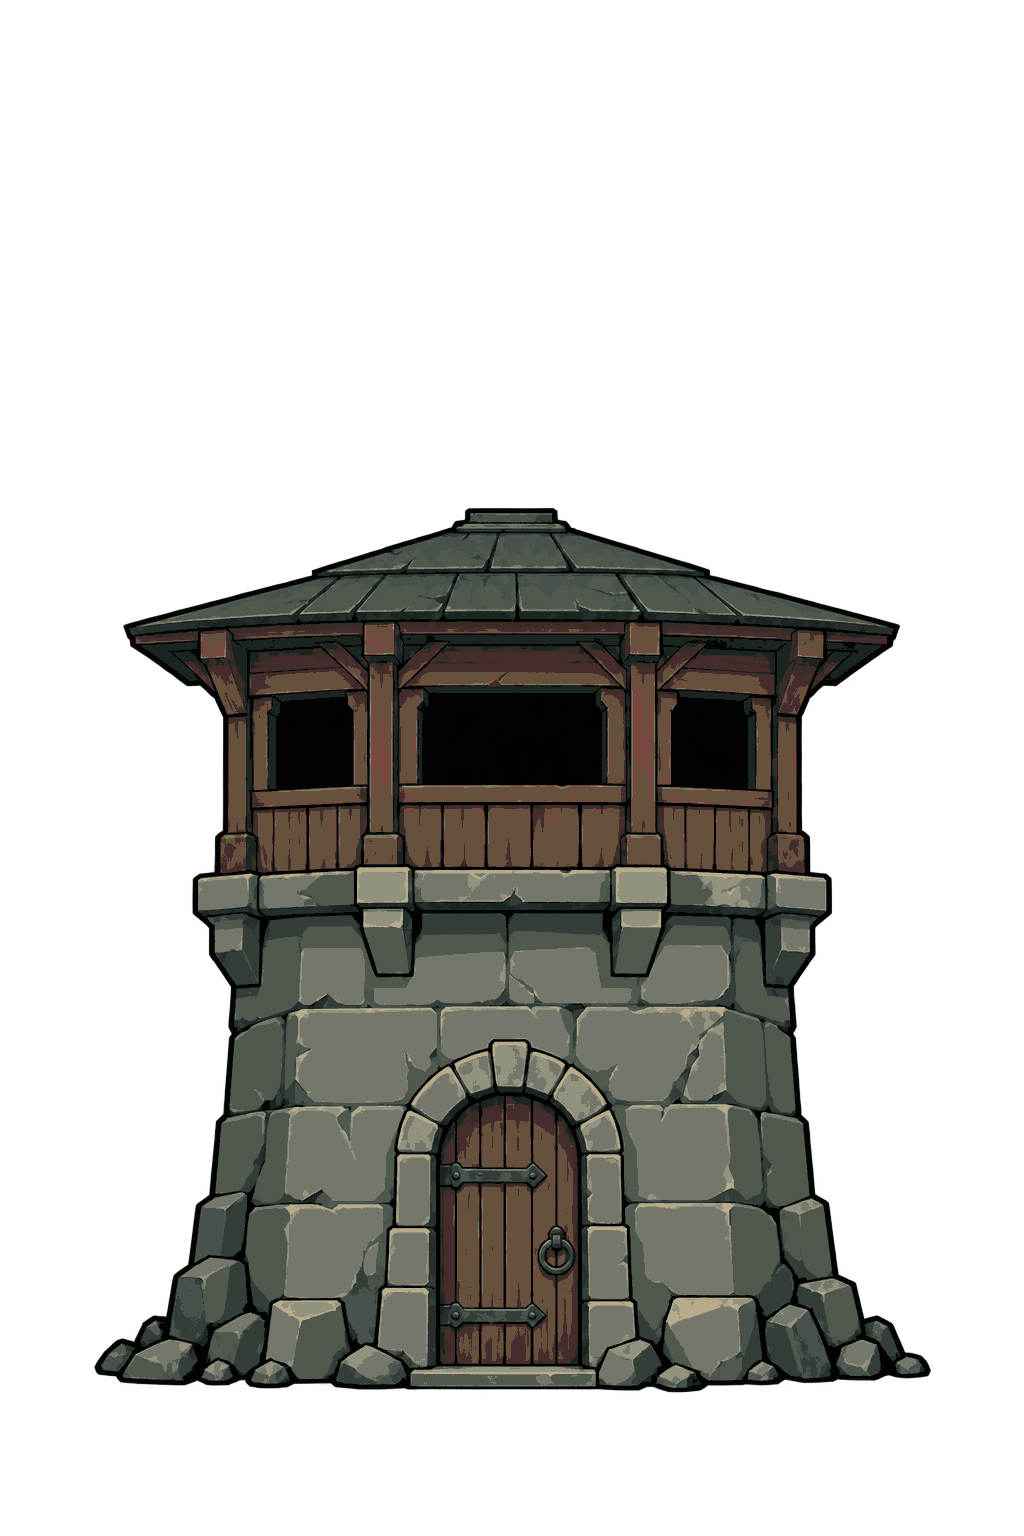
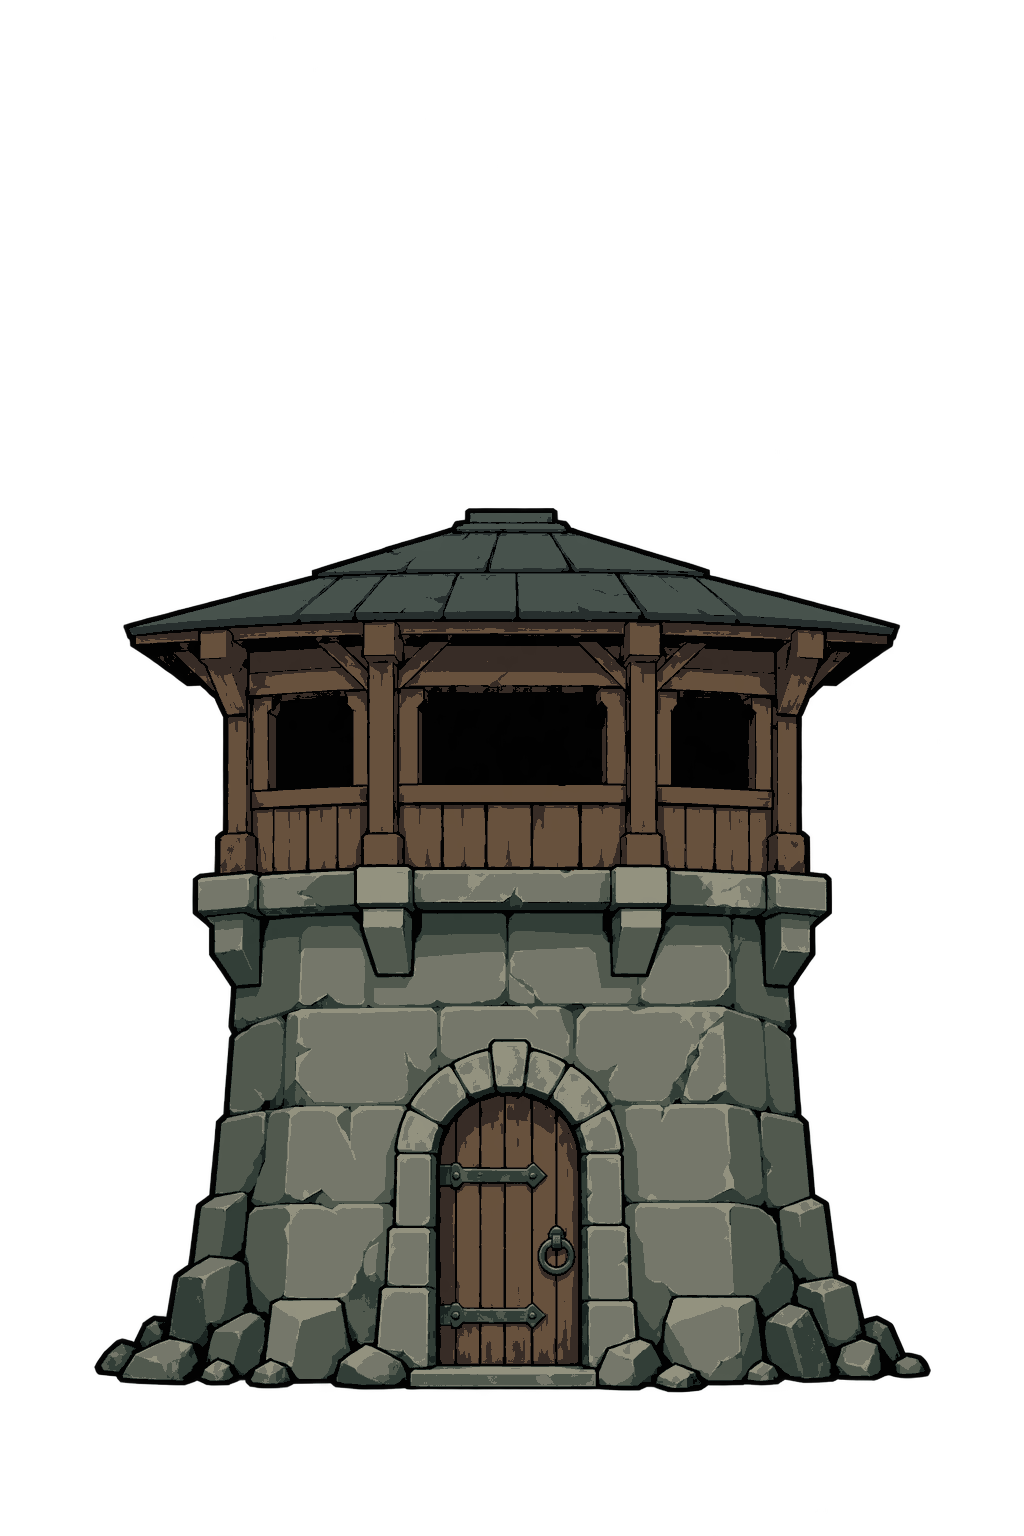
Preserve ongoing Gloam concept progression and palette updates

diff --git a/tools/gloam_renewed_palette.py b/tools/gloam_renewed_palette.py
@@ -13,11 +13,47 @@ PALETTE = np.array([[int(h[i:i+2], 16) for i in (0, 2, 4)] for h in HEX], dtype=
 def convert(source, destination):
     original = np.array(Image.open(source).convert('RGBA'))
     out = original.copy()
-    # Match colors without dithering, resampling, or changing alpha.
+    # Classify material hue, then quantize only within that material's roles.
+    # The same thresholds restore tier-one material assignments in every stage.
     for start in range(0, len(out), 64):
         rgb = original[start:start+64, :, :3].astype(np.int32)
         distances = ((rgb[:, :, None, :] - PALETTE.astype(np.int32)) ** 2).sum(axis=3)
+        r, g, b = rgb.transpose(2, 0, 1)
+        yy = np.arange(start, start + len(rgb))[:, None]
+        xx = np.arange(rgb.shape[1])[None, :]
+        roles = np.zeros_like(distances, dtype=bool)
+        roles[:, :, [0, 1, 2, 3, 4, 5]] = True
+        roof = np.broadcast_to(yy < 650, r.shape)
+        roles[roof] = False
+        roles[roof, 0] = True
+        roles[roof, 6] = True
+        roles[roof, 7] = True
+        wood = (r > g * 1.12) & (g > b * 1.10)
+        roles[wood] = False
+        for index in [0, 8, 9]:
+            roles[wood, index] = True
+        if 'level-1' not in destination.name:
+            cloth_zone = (yy < 480) | ((xx > 420) & (xx < 610) & (yy > 745) & (yy < 1030))
+            cloth = cloth_zone & (r > g * 1.4) & (r > b * 1.3)
+            roles[cloth] = False
+            for index in [0, 10, 11]:
+                roles[cloth, index] = True
+            bone = cloth_zone & (r > 150) & (r > g) & (g > b * 1.08)
+            roles[bone] = False
+            roles[bone, 12] = True
+        if 'frost' in destination.name:
+            frost = (b > r * 1.12) & (b > g * 1.02)
+            roles[frost] = False
+            for index in [0, 13, 14]:
+                roles[frost, index] = True
+        if 'poison' in destination.name:
+            poison = (g > r * 1.08) & (g > b * 1.30)
+            roles[poison] = False
+            for index in [0, 1, 15]:
+                roles[poison, index] = True
+        distances[~roles] = 1000000
         out[start:start+64, :, :3] = PALETTE[distances.argmin(axis=2)]
+    out[original[:, :, 3] == 0, :3] = 0
     destination.parent.mkdir(parents=True, exist_ok=True)
     Image.fromarray(out).save(destination)
     saved = np.array(Image.open(destination))
